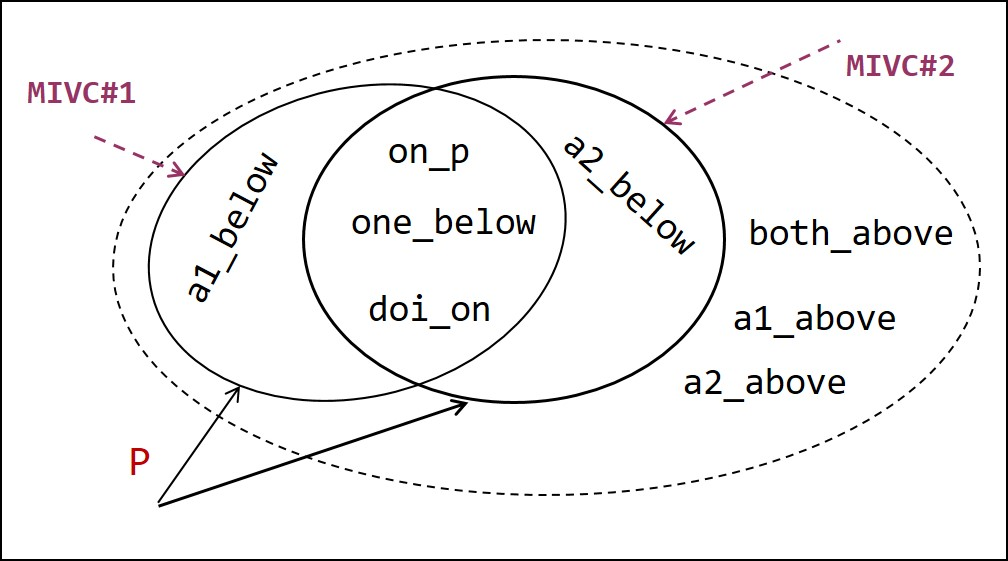
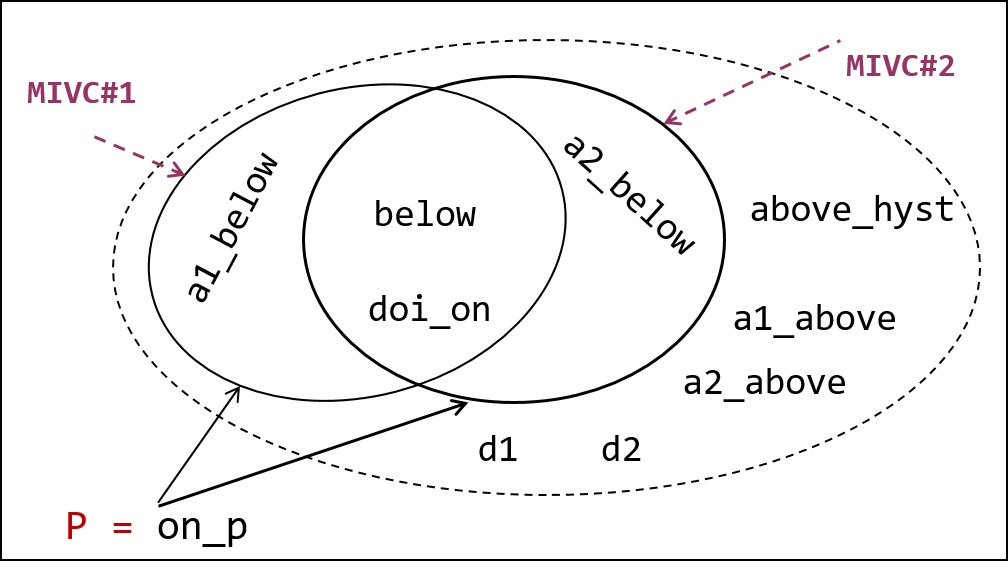
fix the TSE example

diff --git a/TSE/TSE_TEX/illust.tex b/TSE/TSE_TEX/illust.tex
@@ -4,55 +4,57 @@ To illustrate the \aivcalg ~algorithm we use the example presented in Section \r
 %As inspired by the MARCO algorithm in \cite{marco2016fast}, we visualize $\mathcal{P}(\mathcal{A})$ as a lattice in a Hasse diagram (Fig.~\ref{fig:lattice1}) to demonstrate the progress of the algorithm. As you can see, each level of the lattice contains sets with the same size linked to sets that are their immediate
 %supersets (upper level regions) and subsets (lower level regions). Note that the power set is viewed as a Boolean formula, so each member in the lattice shows
 % variable with $true$.
-For better description, we view $T$ as an ordered set of its top-level conjuncts; i.e. $T = \{$ {\small \texttt{a1\_below, a2\_below, a1\_above, a2\_above, one\_below, both\_above, doi\_on, on\_p}} $\}$.
-The algorithm starts with creating activation literals for each $T_i \in T$. Let the ordered set of Boolean variables $\{ a_1, \ldots , a_8 \}$ be the corresponding literals to the elements of $T$ (e.g. $\actlit ({ \small \texttt{a1\_below}}) = a_1$ and $\actlit ({\small \texttt{on\_p}}) = a_8$). Then, line 3 initializes $map$ with $\top$.
+For better description, we view $T$ as an ordered set of its top-level conjuncts; i.e. $T = \{$ {\small \texttt{a1\_below, a2\_below, a1\_above, a2\_above, below, above\_hyst, doi\_on, d1, d2}} $\}$.
+The algorithm starts with creating activation literals for each $T_i \in T$. Let the ordered set of Boolean variables $\{ a_1, \ldots , a_9 \}$ be the corresponding literals to the elements of $T$ (e.g. $\actlit ({ \small \texttt{a1\_below}}) = a_1$ and $\actlit ({\small \texttt{d2}}) = a_9$). Then, line 3 initializes $map$ with $\top$.
 
 In the first iteration of the \texttt{while} loop, since $map$ is
 empty, it is satisfiable, and a model for it can be any subset of
 literals. So obviously, the first maximal model of $map$ contains all
 the literals, which means, in line~\ref{alg:aivc:assignm}, $M = \{a_1,
-\ldots, a_8\}$, and in line~\ref{alg:aivc:assigns}, $S = T$. Since $S$
+\ldots, a_9\}$, and in line~\ref{alg:aivc:assigns}, $S = T$. Since $S$
 is adequate for $P$, the \getivc ~module is called in
 line~\ref{alg:aivc:getivc}. Suppose the returned \mivc\ by this function
-is $S' = \{ { \small \texttt{a1\_below},~\texttt{one\_below},
-  ~\texttt{doi\_on},~\texttt{on\_p}}\}$; this set is added to $A$ in
+is $S' = \{ { \small \texttt{a1\_below},~\texttt{below},
+  ~\texttt{doi\_on}}\}$; this set is added to $A$ in
 line~\ref{alg:aivc:addset}, and thus it comes to adding a new clause
 to $map$ (line~\ref{alg:aivc:aadd}), which makes $map = (\neg a_1 \vee
-\neg a_5 \vee \neg a_7 \vee \neg a_8)$. As discussed, this constraint
+\neg a_5 \vee \neg a_7)$. As discussed, this constraint
 marks all the supersets of $S'$ as blocked and prunes them off the
 search space.
 
+%For the second iteration, $map$ is still satisfiable,
+%so the algorithm gets to find a maximal model of it in line~\ref{alg:aivc:maxsat}. Suppose this time, the maximal model makes $M = \{a_1, \ldots, a_7\}$,
+%which leads to $S = T \setminus \{ {\small \texttt{on\_p}}\} $ in line~\ref{alg:aivc:assigns}.
+%Since $S$ is inadequate for $P$,
+%the algorithm jumps to line 12 updating
+%$map$ as $map \leftarrow map \wedge a_8$.
+%Adding this new clause removes all the subsets of
+%$T \setminus \{{\small \texttt{on\_p}}\}$
+%from the search space. Similarly, in the third iteration, 
+%if the maximal model of $map$
 For the second iteration, $map$ is still satisfiable,
-so the algorithm gets to find a maximal model of it in line~\ref{alg:aivc:maxsat}. Suppose this time, the maximal model makes $M = \{a_1, \ldots, a_7\}$,
-which leads to $S = T \setminus \{ {\small \texttt{on\_p}}\} $ in line~\ref{alg:aivc:assigns}.
-Since $S$ is inadequate for $P$,
-the algorithm jumps to line 12 updating
-$map$ as $map \leftarrow map \wedge a_8$.
-Adding this new clause removes all the subsets of
-$T \setminus \{{\small \texttt{on\_p}}\}$
-from the search space. Similarly, in the third iteration, if the maximal model of $map$
-yields $M = \{a_1, \ldots, a_4, a_6, \ldots, a_8\}$, then $S = T \setminus \{ {\small \texttt{one\_below}}\} $ will be another inadequate set that makes $map$ become
+so the algorithm gets to find a maximal model of it in line~\ref{alg:aivc:maxsat}. Suppose this time, the maximal model makes $M = \{a_1, \ldots, a_4, a_6, \ldots, a_9\}$, then $S = T \setminus \{ {\small \texttt{below}}\} $ will be another inadequate set that makes $map$ become
 $map \leftarrow map \wedge a_5$
 in line~\ref{alg:aivc:iadd}.
 
-Suppose, in the fourth iteration, the maximal model leads to $M = \{a_2, \ldots, a_8\}$ and
+Suppose, in the third iteration, the maximal model leads to $M = \{a_2, \ldots, a_9\}$ and
 $S = T \setminus \{ {\small \texttt{a1\_below}}\} $ in lines~\ref{alg:aivc:assignm} and~\ref{alg:aivc:assigns}.
 Since this $S$ is adequate for $P$, \getivc ~computes a new \mivc\ in line~\ref{alg:aivc:getivc}.
-Let the new \mivc\ be $S' = \{ {\small \texttt{a2\_below},~\texttt{one\_below}, ~\texttt{doi\_on},~\texttt{on\_p}}\}$; after adding this set to $A$,
+Let the new \mivc\ be $S' = \{ {\small \texttt{a2\_below},~\texttt{below}, ~\texttt{doi\_on}}\}$; after adding this set to $A$,
 it is time to constrain $map$ by a new clause in line~\ref{alg:aivc:addset},
-which results in $map \leftarrow map \wedge (\neg a_2 \vee \neg a_5 \vee \neg a_7 \vee \neg a_8)$.
+which results in $map \leftarrow map \wedge (\neg a_2 \vee \neg a_5 \vee \neg a_7)$.
 
 After these iterations, $map$ is still satisfiable, and the maximal model is
  $S = T \setminus \{ { \small \texttt{a1\_below}}, { \small \texttt{a2\_below}}\}$ in line~\ref{alg:aivc:assigns}.
 In this case, $S$ is inadequate, so we update $map$ as
 $map \leftarrow map \wedge (a_1 \vee a_2)$ (line~\ref{alg:aivc:iadd}). After adding this new clause to $map$,
 all the subsets of $T \setminus \{ { \small \texttt{a1\_below}}, {\small \texttt{a2\_below}}\}$
-will be blocked. The algorithm continues similar to the forth iteration leading to $S$ (in line~\ref{alg:aivc:assigns}) and $map$ (in line~\ref{alg:aivc:iadd}) to be as
+will be blocked. The algorithm continues similar to the fourth iteration leading to $S$ (in line~\ref{alg:aivc:assigns}) and $map$ (in line~\ref{alg:aivc:iadd}) to be as
  $S = T \setminus \{ {\small  \texttt{doi\_on}}\}$ and $map \leftarrow map \wedge a_7$.
 
-Finally, after the sixth iteration, $map$ becomes \unsat and the algorithm terminates.
+Finally, after the fifth iteration, $map$ becomes \unsat and the algorithm terminates.
 Note that $MIS$es and $IVC$s may be discovered in different orders from what explained here. The order by which sets are explored is
-quite dependent on the maximal model returned in line~\ref{alg:aivc:maxsat} as well as the \mivc s returned in line~\ref{alg:aivc:getivc} because there could be several distinct maximal models (\mis es) and \mivc s. For this example with a $|T| = 8$ and $|\mathcal{P}(T)| = 2^8$, a brute force approach of power set exploration needs to look into  256 cases. However, the \aivcalg ~algorithm only explored 6 cases to cover the entire power set. %Depending on the order by which \mivc s and \mis es are discovered, the total cases to explore by the algorithm may change.
+quite dependent on the maximal model returned in line~\ref{alg:aivc:maxsat} as well as the \mivc s returned in line~\ref{alg:aivc:getivc} because there could be several distinct maximal models (\mis es) and \mivc s. For this example with a $|T| = 9$ and $|\mathcal{P}(T)| = 2^9$, a brute force approach of power set exploration needs to look into 512  cases. However, the \aivcalg ~algorithm only explored 5 cases to cover the entire power set. %Depending on the order by which \mivc s and \mis es are discovered, the total cases to explore by the algorithm may change.
 % All in all, it is fair to say the \aivcalg ~algorithm is  linear in the size of $T$.
 %This issue could affect the performance of the algorithm as well.
 

diff --git a/TSE/TSE_TEX/example.tex b/TSE/TSE_TEX/example.tex
@@ -13,7 +13,7 @@
 %% We put the image here so it shows up side-by-side with fig:ex-after
 \begin{figure}
 \centering
-\includegraphics[width=0.9\columnwidth]{figs/aswcode.png}
+\includegraphics[width=0.9\columnwidth]{figs/code.jpg}
 \vspace{-0.1in}
 \caption{Altitude Switch Model }
 \label{fig:asw}
@@ -23,5 +23,12 @@
 
 We will use a very simple system from the avionics domain to illustrate our approach. An Altitude Switch (ASW) is a hypothetical device that turns power on to another subsystem, the Device of Interest (DOI), when the aircraft descends below a threshold altitude, and turns the power off again after the aircraft ascends over the threshold plus some hysteresis factor.  An implementation of an ASW containing two altimeters written in the Lustre language (simplified and adapted from~\cite{HCW02:ase-deviation}) is shown in Fig.~\ref{fig:asw}.  If either altimeter is below the constant {\small \texttt{THRESHOLD}}, then it turns on the DOI; else, if the system is ``inhibited'' or both altimeters are above the threshold plus the hysteresis factor {\small \texttt{T\_HYST}}, then the DOI is turned off, and if neither condition holds, then in the initial computation it is false and thereafter retains its previous value.  The notation {\small \texttt{(false -> pre(doi\_on))}} in equation (7) describes an initialized register in Lustre: in the first step, the expression is {\small \texttt{false}}, and thereafter it is the previous value of {\small \texttt{doi\_on}}.
 
-A simple property {\small \texttt{on\_p}} states that if both altimeters are under the threshold, then the DOI is turned on.  This property can easily be proved over the model using a $k$-induction based verifier such as \texttt{JKind}~\cite{jkind}.  %If we perform a backwards static slice over the model starting from {\small \texttt{on\_p}}, the entire model is returned.  However, it is possible to prove the property with a minimal inductive validity core containing the equations assigning $\{ { \small \texttt{a1\_below},~\texttt{one\_below}, ~\texttt{doi\_on},~\texttt{on\_p}}\}$. We can assign arbitrary values to variables outside the subset and the properties are still provable.  Note that for this model there is a symmetric IVC: $\{ {\small \texttt{a2\_below},~\texttt{one\_below}, ~\texttt{doi\_on},~\texttt{on\_p}}\}$.
+A simple property {\small \texttt{on\_p}} states that if both altimeters are under the threshold, then the DOI is turned on:
+{\smaller
+\begin{verbatim}
+on_p = ((alt1 < THRESHOLD) and (alt2 < THRESHOLD))
+             and not inhibit => doi_on = true;
+\end{verbatim}
+}
+\noindent This property can easily be proved over the model using a $k$-induction based verifier such as \texttt{JKind}~\cite{jkind}.  %If we perform a backwards static slice over the model starting from {\small \texttt{on\_p}}, the entire model is returned.  However, it is possible to prove the property with a minimal inductive validity core containing the equations assigning $\{ { \small \texttt{a1\_below},~\texttt{one\_below}, ~\texttt{doi\_on},~\texttt{on\_p}}\}$. We can assign arbitrary values to variables outside the subset and the properties are still provable.  Note that for this model there is a symmetric IVC: $\{ {\small \texttt{a2\_below},~\texttt{one\_below}, ~\texttt{doi\_on},~\texttt{on\_p}}\}$.
 

diff --git a/TSE/TSE_TEX/ivc.tex b/TSE/TSE_TEX/ivc.tex
@@ -44,7 +44,7 @@ By further abuse of notation,
 $T$ is identified with the set of its top-level conjuncts. Thus, $T_i \in
 T$ means that $T_i$ is a top-level conjunct of $T$, and $S
 \subseteq T$ means all top-level conjuncts of $S$ are top-level
-conjuncts of $T$. When a top-level conjunct $T_i$ is removed from $T$, we write $T \setminus \{T_i\}$. Such a transition system can easily encode our example model in Section~\ref{sec:example}, where each equation defines a conjunct within $T$ that we will denote by the variable assigned; so, $T = \{$ {\small \texttt{a1\_below, a2\_below, a1\_above, a2\_above, one\_below, both\_above, doi\_on, on\_p}} $\}$.
+conjuncts of $T$. When a top-level conjunct $T_i$ is removed from $T$, we write $T \setminus \{T_i\}$. Such a transition system can easily encode our example model in Section~\ref{sec:example}, where each equation defines a conjunct within $T$ that we will denote by the variable assigned; so, $T = \{$ {\small \texttt{a1\_below, a2\_below, a1\_above, a2\_above, below, above\_hyst, doi\_on, d1, d2}} $\}$.
 
 \begin{definition}{\emph{Inductive Validity Core (\ivc):}}
   \label{def:ivc}
@@ -82,11 +82,11 @@ the following monotonicity property.
 \begin{proof}
   From $S_1 \subseteq S_2$ we have $S_2 \Rightarrow S_1$. Thus the
   reachable states of $(I, S_2)$ are a subset of the reachable states
-  of $(I, S_1)$. 
+  of $(I, S_1)$.
 \end{proof}
 
-Fig.~\ref{fig:ivcs} illustrates these notions by a graphical representation of minimal IVCs for property $P = ({\small{\texttt{on\_p}}})$ in the example presented in Section~\ref{sec:example}. As shown in the picture, this property has two distinct \mivc s, which means the model satisfies $P$ in two different ways:  {\small \texttt{\{\{a1\_below, one\_below, doi\_on, on\_p\}, \{a2\_below, one\_below, doi\_on, on\_p\}\}}}, This is because in the implementation, the DOI is turned on when either of the altimeters is below the threshold, while our property states that they both must be below.
-Note that there is a subset of model elements, $\{{\small \texttt{a1\_above, a2\_above, both\_above}}\}$, that does not show up in $AIVC(P)$. Elements in such a subset
+Fig.~\ref{fig:ivcs} illustrates these notions by a graphical representation of minimal IVCs for property $P = ({\small{\texttt{on\_p}}})$ in the example presented in Section~\ref{sec:example}. As shown in the picture, this property has two distinct \mivc s, which means the model satisfies $P$ in two different ways:  {\small \texttt{\{\{a1\_below, below, doi\_on\}, \{a2\_below, below, doi\_on\}\}}}, This is because in the implementation, the DOI is turned on when either of the altimeters is below the threshold, while our property states that they both must be below.
+Note that there is a subset of model elements, $\{{\small \texttt{a1\_above, a2\_above, above\_hyst, d1, d2}}\}$, that does not show up in $AIVC(P)$. Elements in such a subset
 do not affect the satisfaction of $P$.  For comparison, note that a backwards static slice starting from {\small{\texttt{on\_p}}} will include the entire model.
 %In the complete ASW model in~\cite{HCW02:ase-deviation} there are additional properties that use these elements, but they are not necessary for the discussion in this paper.
 

diff --git a/TSE/TSE_TEX/disc.tex b/TSE/TSE_TEX/disc.tex
@@ -16,17 +16,17 @@
 \newcommand{\abovehyst}{\texttt{above\_hyst}}
 \newcommand{\inhibit}{\texttt{inhibit}}
 
-In this section we show how traceability and coverage analyses can be performed using IVCs. 
-The goal of this section is to both illustrate the techniques and discuss the potential pitfalls of the analysis. Here we adapt the same ASW example presented in Section \ref{sec:example}. The code is slightly changed so we can discuss how IVCs help to improve the design and specification. The new code is presented in Fig. \ref{fig:asw2}.
+In this section we show how traceability and coverage analyses can be performed using IVCs.
+The goal of this section is to both illustrate the techniques and discuss the potential pitfalls of the analysis. Here we adapt the same ASW example presented in Section \ref{sec:example}. The code is slightly changed so we can discuss how IVCs help to improve the design and specification. 
 
- \begin{figure}[t]
-\centering
-\includegraphics[width=0.9\columnwidth]{figs/code.jpg}
-\vspace{-0.1in}
-\caption{Altitude Switch Model}
-\vspace{-0.1in}
-\label{fig:asw2}
-\end{figure}
+% \begin{figure}[t]
+%\centering
+%\includegraphics[width=0.9\columnwidth]{figs/code.jpg}
+%\vspace{-0.1in}
+%\caption{Altitude Switch Model}
+%\vspace{-0.1in}
+%\label{fig:asw2}
+%\end{figure}
 
  We illustrate the results with traceability matrices produced by the  \texttt{Spear} requirements specification tool~\cite{Spear}.  \texttt{JKind} is used as the model checker for the  \texttt{AADL AGREE} tool suite~\cite{NFM2012:CoGaMiWhLaLu} and also \texttt{Spear} ~\cite{Spear}.  We have extended both tools to add graphical support for displaying adequacy and traceability results.  We show screenshots for the  \texttt{Spear} tool for our running example in Figures~\ref{fig:propertyset1} and~\ref{fig:propertyset4}.
 
@@ -133,7 +133,7 @@ Now we will examine this situation.
 Since some of the proposed metrics need to compute all IVCs ($AIVC(P)$),
 we have investigated efficient algorithms for computing all IVCs.
 Based on our preliminary evaluation, computing $AIVC$ is computationally feasible for realistic models. In addition, we believe that it is possible to obtain MIVCs directly while computing $AIVC$.
-We have implemented an efficient algorithm for this purpose, not yet published though. Once the author names are revealed, we can provide a detailed report about it.  
+We have implemented an efficient algorithm for this purpose, not yet published though. Once the author names are revealed, we can provide a detailed report about it.
 %which would remove any concern about minimality. %\ela{this is also mentioned in the RE paper. I don't know if it would be problematic for double-blind reviewing}
 
 \subsection{Granularity}
